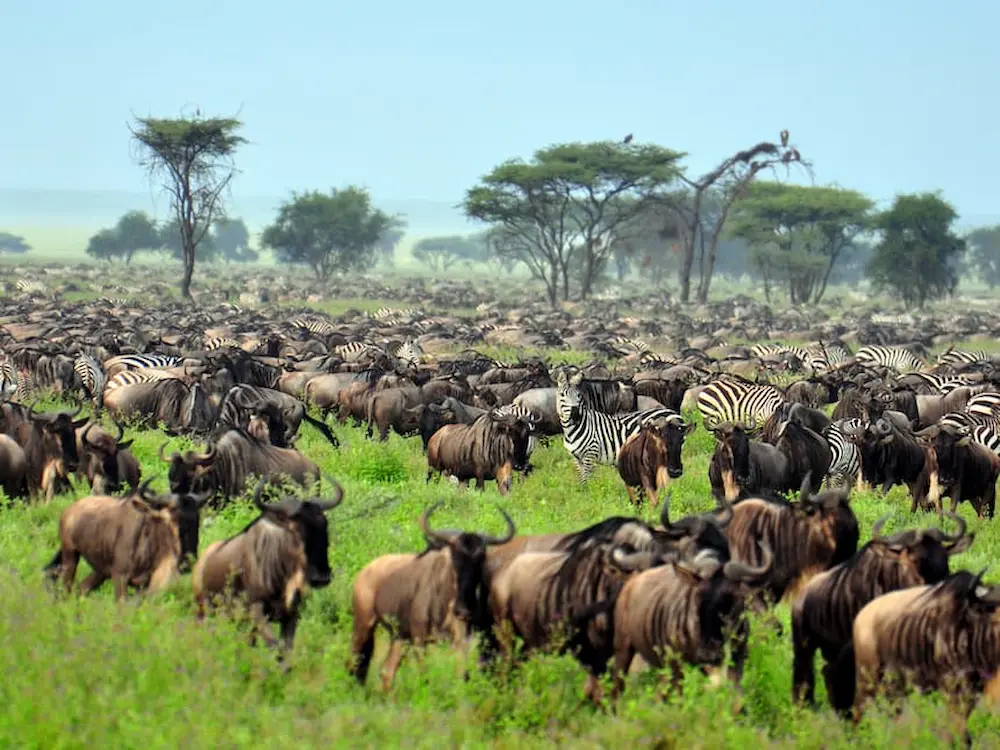
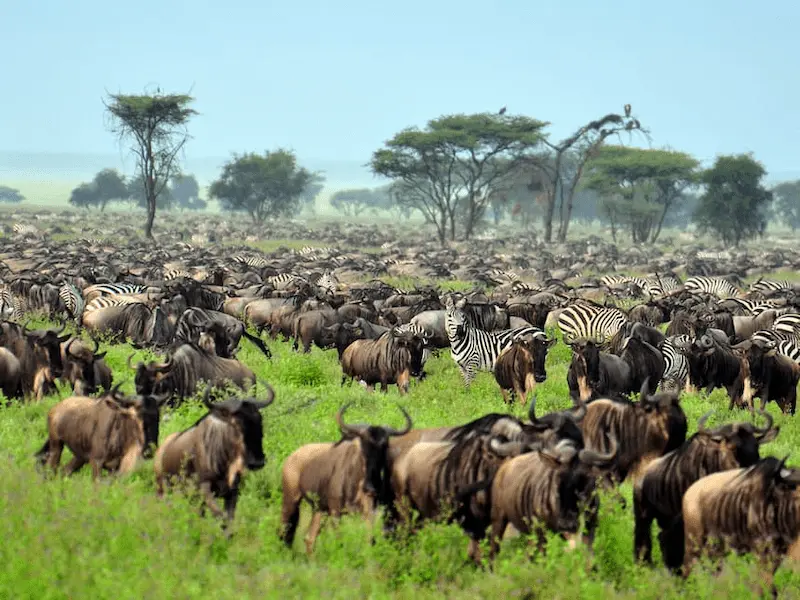
effect

diff --git a/place.html b/place.html
@@ -19,7 +19,7 @@
             <picture>
                 <source srcset="images/hero-small.webp" media="(max-width:400px)">
                 <source srcset="images/hero-large.webp" media="(max-width:1200px)">
-                <img src="images/wilderbeest4.webp" alt="wilderbeest migration in kenya"  width="1000" height="750">
+                <img src="images/wilderbeest4.webp" alt="wilderbeest migration in kenya"  width="800" height="600">
             </picture>
         <div class="data">
             <h2>data</h2>
